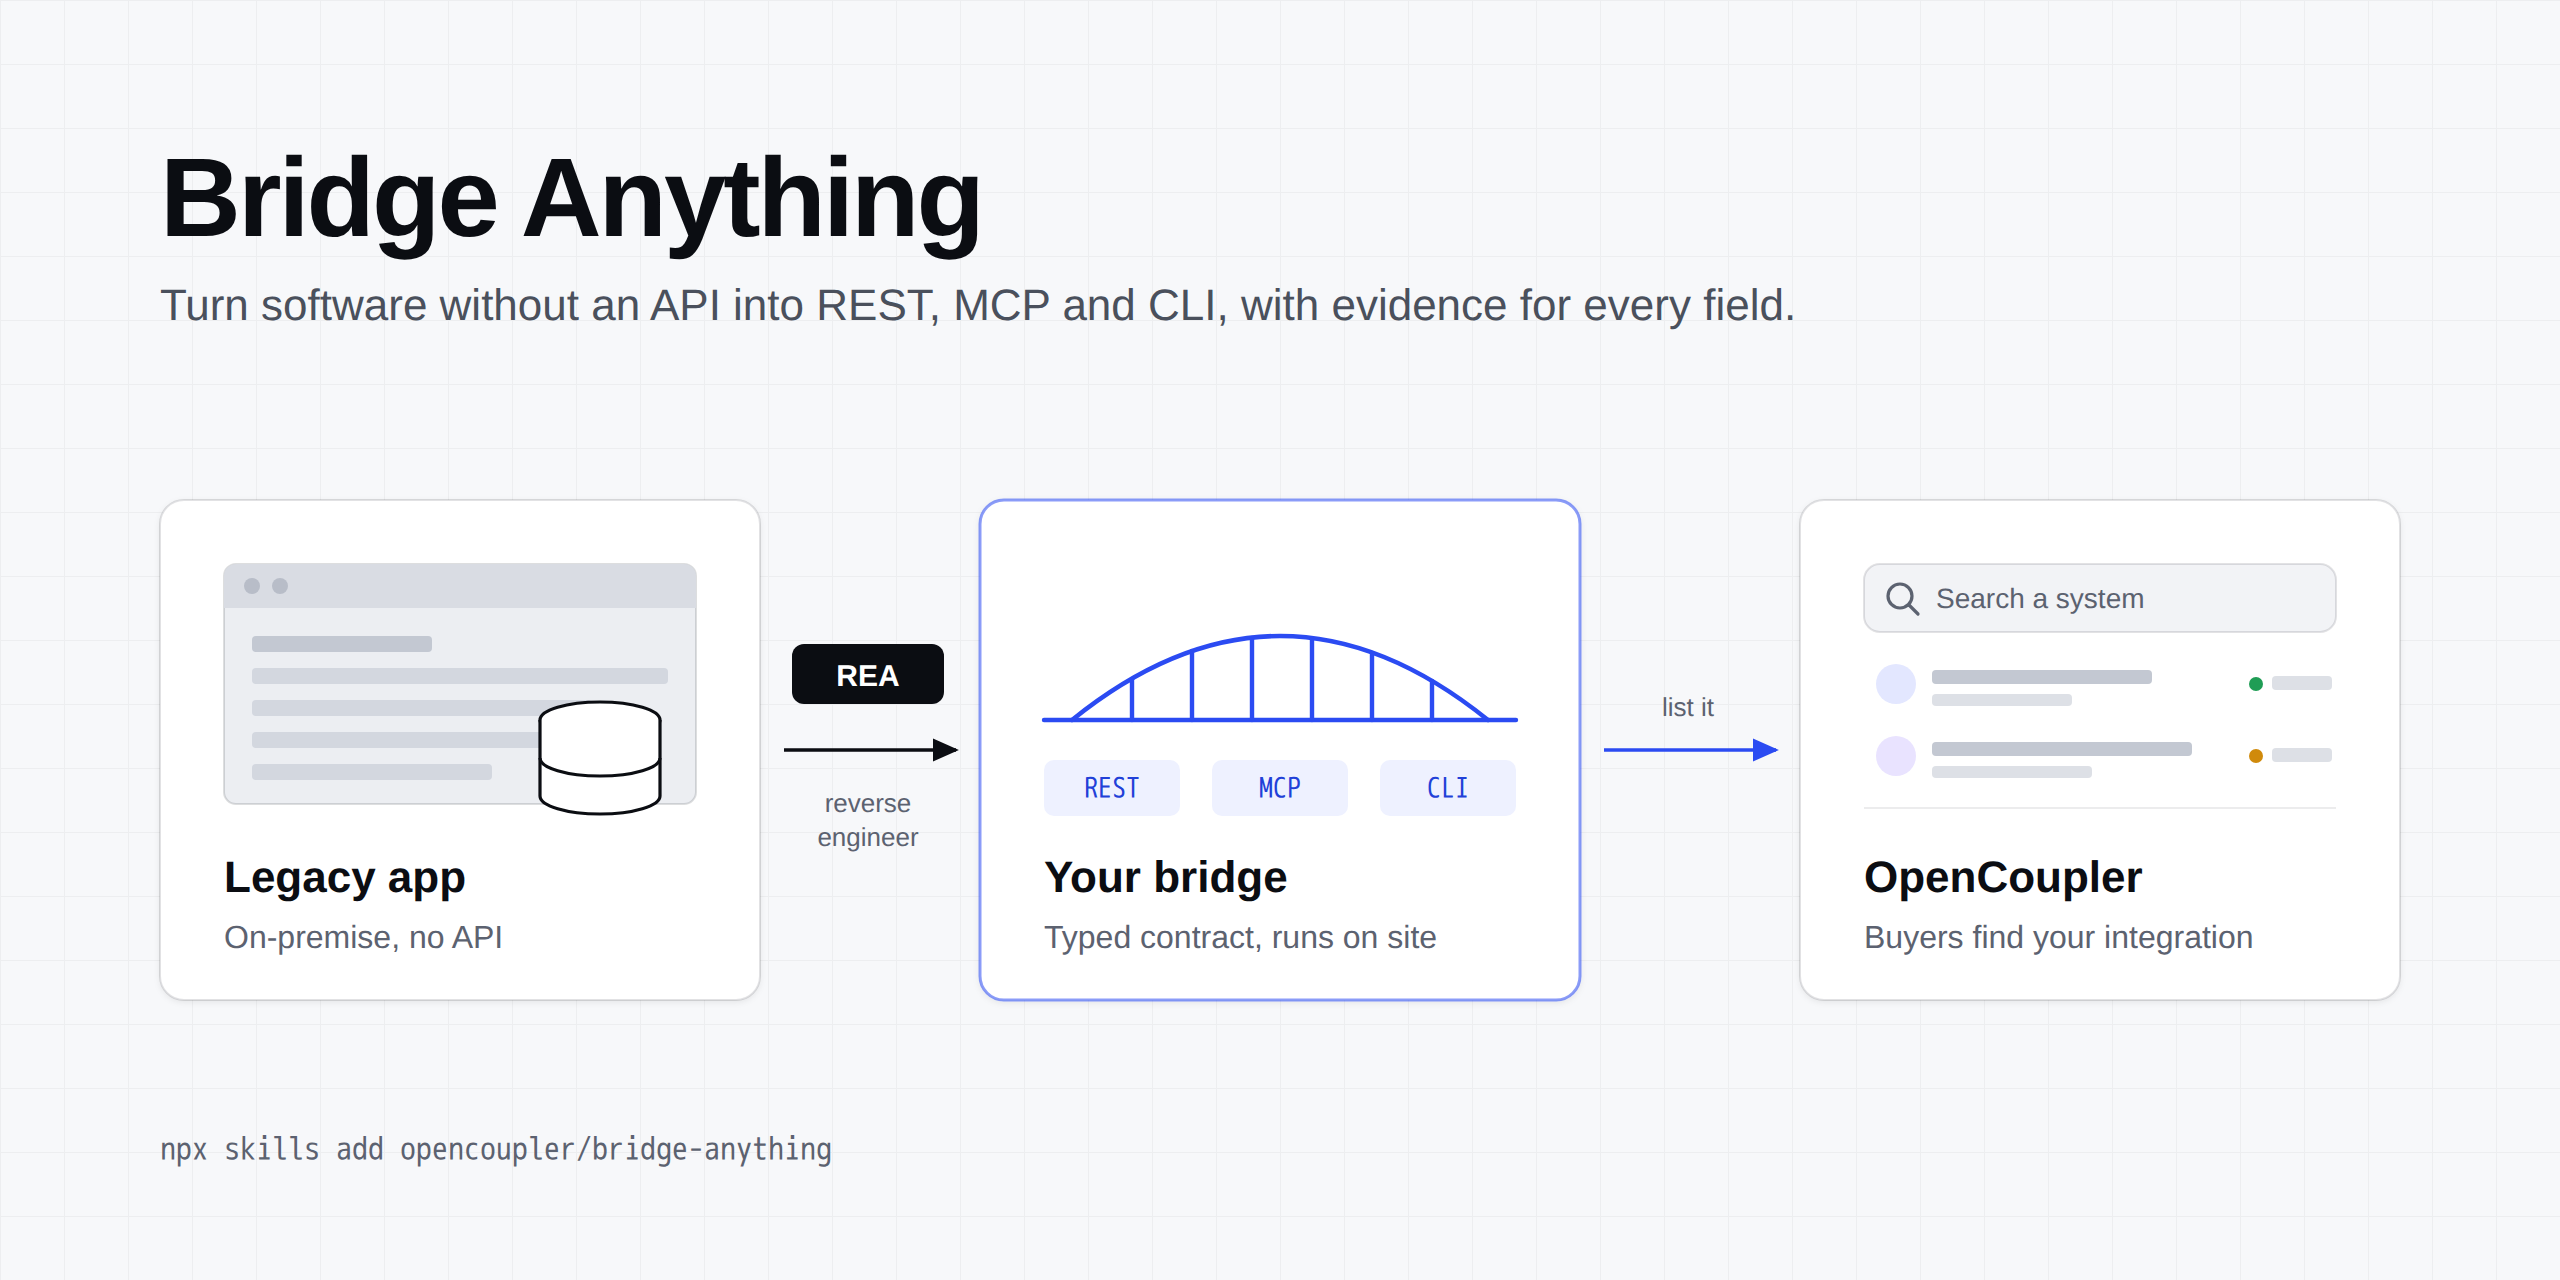
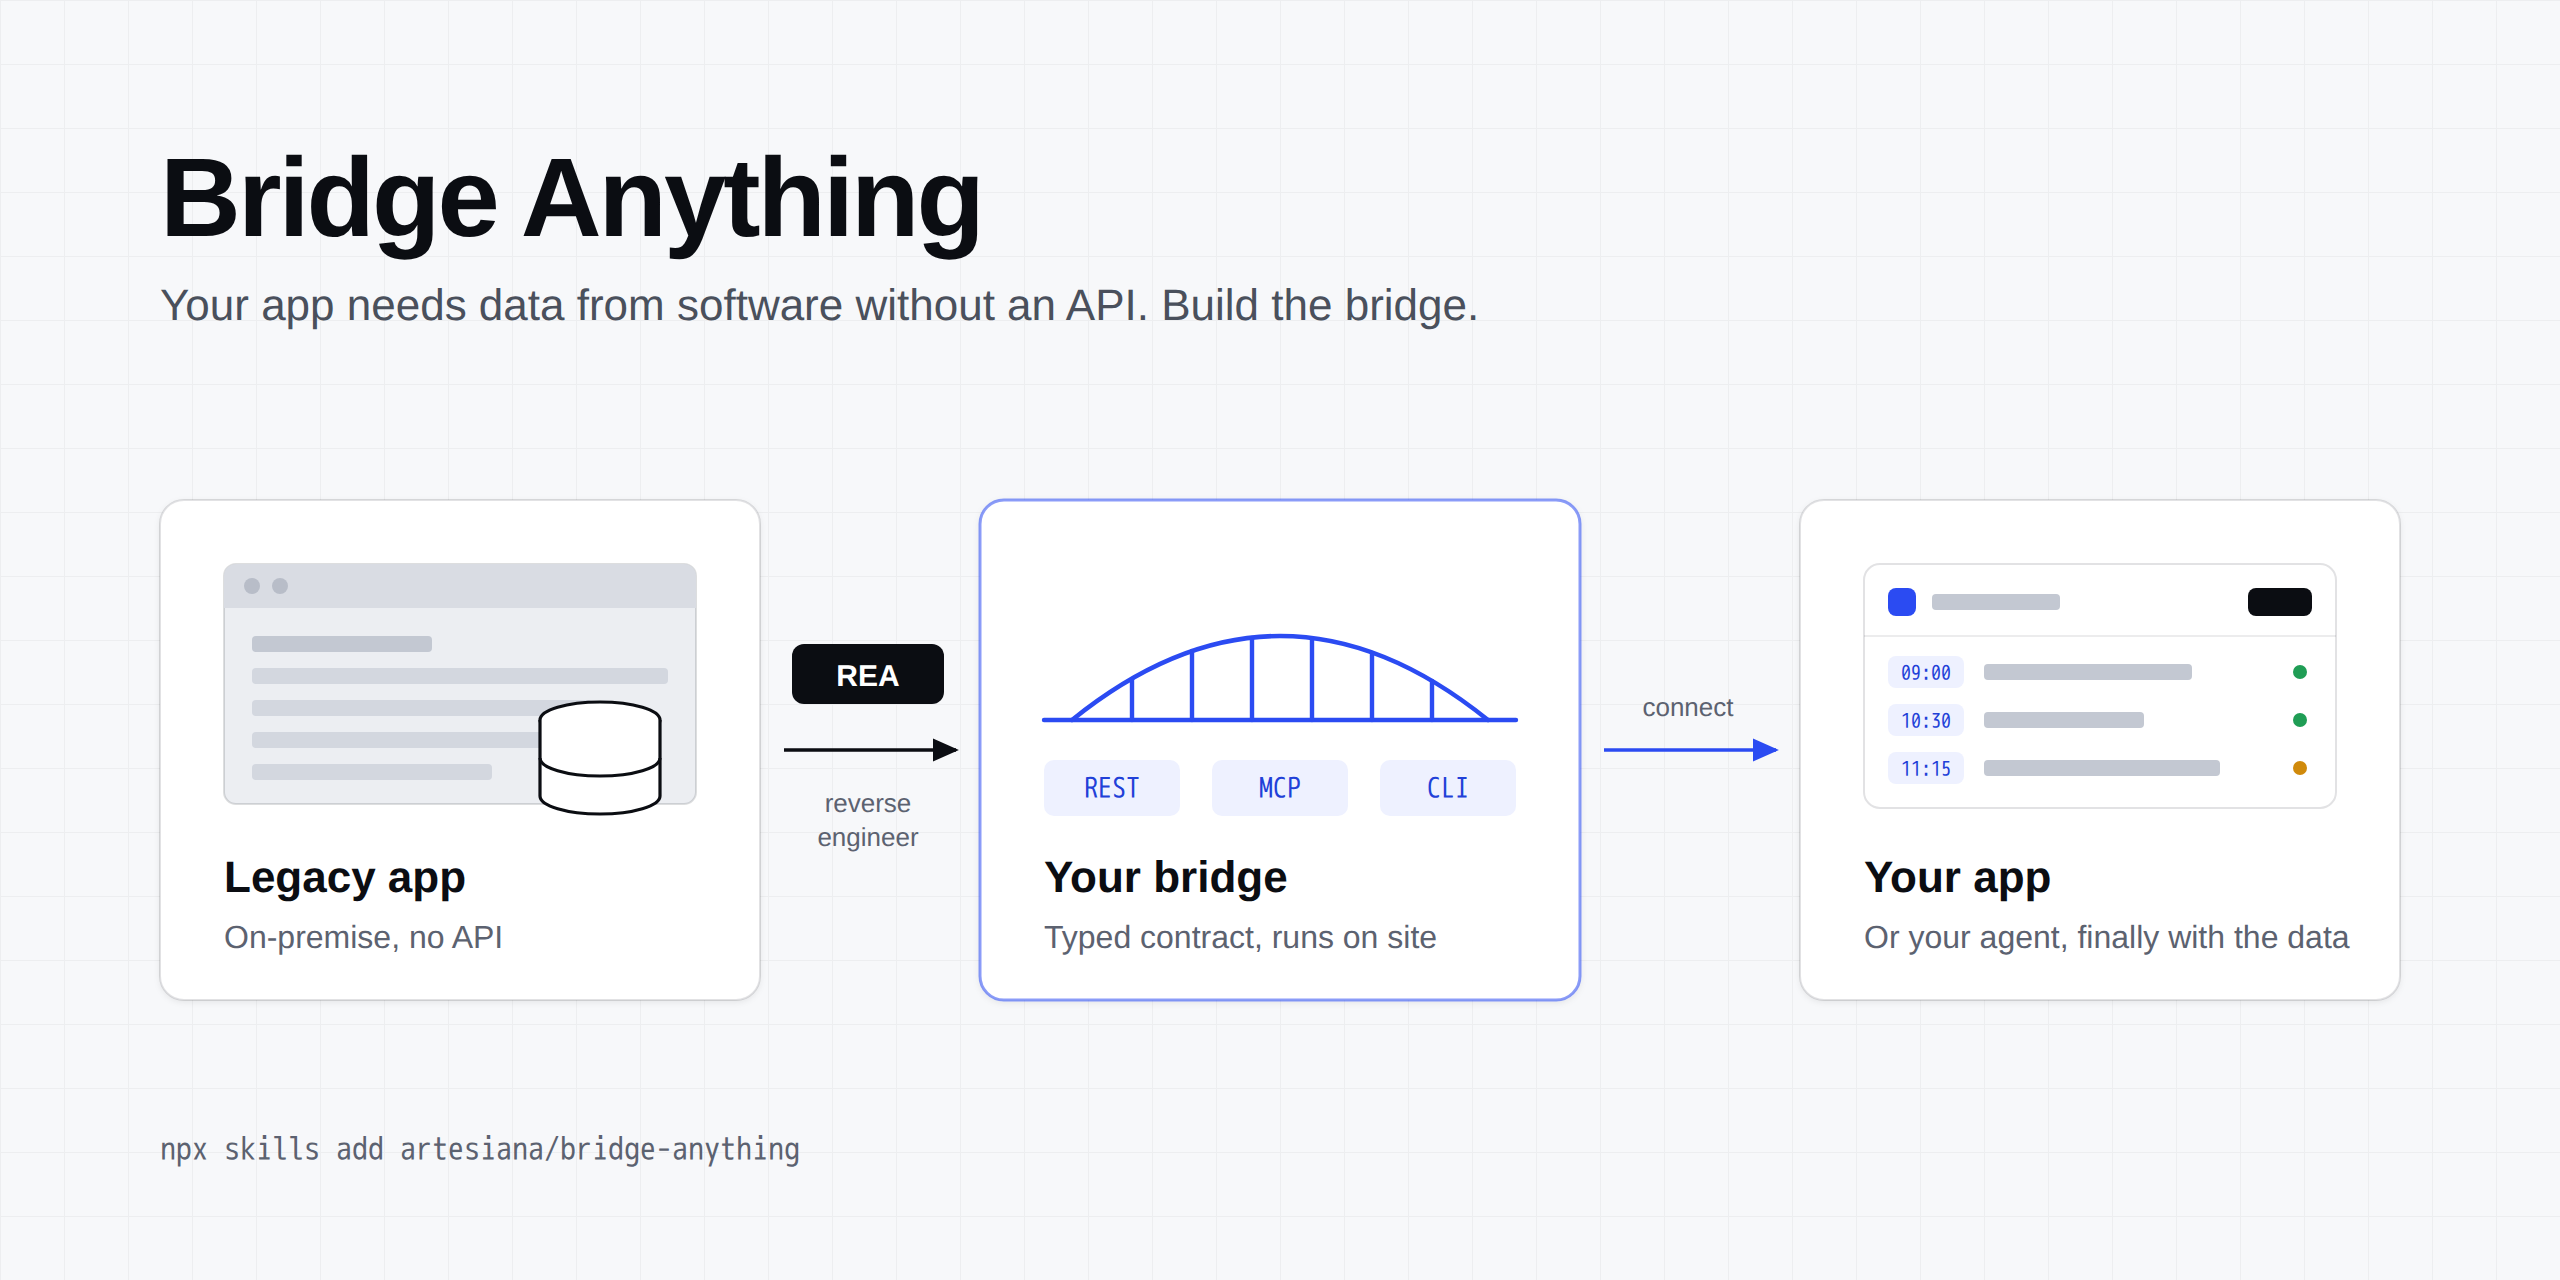
Frame the skill around connecting your own app; publish under Artesiana

diff --git a/README.md b/README.md
@@ -1,61 +1,60 @@
-<img src="assets/hero.png" alt="Bridge Anything: a legacy app without an API, reverse engineered with REA into a bridge exposing REST, MCP and CLI, listed on OpenCoupler" width="100%" />
+<img src="assets/hero.png" alt="Bridge Anything: software without an API, reverse engineered with REA into a bridge with REST, MCP and CLI that your app talks to" width="100%" />
 
 # Bridge Anything
 
-[![skills.sh](https://skills.sh/b/opencoupler/bridge-anything)](https://skills.sh/opencoupler/bridge-anything)
+[![skills.sh](https://skills.sh/b/artesiana/bridge-anything)](https://skills.sh/artesiana/bridge-anything)
 [![MIT license](https://img.shields.io/badge/license-MIT-f4c430?style=flat-square)](LICENSE)
 
-An agent skill that builds an integration into software that has no API.
+Your app needs data from software that has no API. This skill builds the bridge.
 
-Doctors' practice software, dealer systems, tax and accounting desktop apps, old ERPs: a lot of the world's data sits in systems of record that run on a server in the back office and offer no API, or one you can only get through a partner programme. Every agent, app and automation that wants that data stops there.
+Doctors' practice software, dealer systems, tax and accounting desktop apps, old ERPs: a lot of the world's data sits in programs that run on a server in the back office and offer no API, or one you only get through a partner programme. Every app, automation and agent that wants that data stops there.
 
-**Bridge Anything** gives your coding agent (Claude Code, Codex, Cursor and others) a method for getting through. It uses [REA (Reverse Engineer Anything)](https://github.com/morluto/rea) to find where the app keeps its data and how it reads and writes it, then builds a small **bridge** that runs next to the system and exposes that data as REST, MCP and a CLI. Every table, column and write path the bridge relies on is backed by evidence REA found.
+**Bridge Anything** gives your coding agent (Claude Code, Codex, Cursor and others) a method for getting through. It uses [REA (Reverse Engineer Anything)](https://github.com/morluto/rea) to find where the software keeps its data and how it reads and writes it, then builds a small **bridge** that runs next to it and exposes that data as REST, MCP and a CLI. Then it wires your app to the bridge.
 
-When the bridge works, the skill can list it on [OpenCoupler](https://opencoupler.com), so the software companies and IT service providers looking for exactly that integration can find you.
+Every table, column and write path the bridge relies on is backed by evidence REA found. Nothing is guessed.
 
 ## Install
 
 ```bash
 npx rea-agents setup                          # connect REA to your agent
-npx skills add opencoupler/bridge-anything    # add this skill
+npx skills add artesiana/bridge-anything      # add this skill
 ```
 
-Restart your agent afterwards. The skill tells the agent how to work; REA gives it the tools to look inside the app.
+Restart your agent afterwards. The skill tells the agent how to work; REA gives it the tools to look inside the software.
 
 ## Ask your agent
 
 ```text
 Use bridge-anything on the test installation in C:\Praxis\TestInstall.
-We need to read patients and appointments for our booking app, and later
+My booking app needs patients and appointments from it, and later has to
 create appointments. I hold the licence for this installation.
 ```
 
-Replace the path, the data and the purpose with your own.
+Replace the path, the data and the app with your own.
 
 ## How it works
 
-The skill runs six steps. Each one ends on a check the agent has to pass before it moves on.
+Seven steps. Each one ends on a check the agent has to pass before it moves on.
 
 1. **Establish the right to do this.** Whose installation, who agreed, what the vendor already offers. The bridge uses access a licensed user or administrator already has.
 2. **Find where the data lives.** REA inspects the installation: runtime, database engine, connection config, export folders. The skill knows what SQL Server, Firebird, SQL Anywhere, Btrieve, Access, dBase, SQLite and others leave on disk.
-3. **Map each data area.** Tables, keys, deletion, change markers, code tables, and how the app writes, read from its data-access code with REA and confirmed by diffing the database around one action. Results are checked against what the app shows on screen.
-4. **Choose the access path.** Vendor API first, then interface files, then a read-only database user, then UI automation. Writes only through a path the app itself uses.
+3. **Map each data area.** Tables, keys, deletion, change markers, code tables, and how the software writes, read from its data-access code with REA and confirmed by diffing the database around one action. Results are checked against what the software shows on screen.
+4. **Choose the access path.** Vendor API first, then interface files, then a read-only database user, then UI automation. Writes only through a path the software itself uses.
 5. **Build the bridge.** Contract first, one source layer, thin REST, MCP and CLI adapters, write safeguards, tests against an anonymised snapshot, packaged to run on site.
-6. **Publish (optional).** List the bridge on OpenCoupler through its MCP server, reviewed by a human before it goes public.
+6. **Connect your app.** A typed client from the contract, or the bridge's MCP server registered in your agent. Your app talks to the bridge, never to the legacy database, so a vendor update only touches the bridge.
+7. **Share it (optional).** Keep it inside your product, open-source it, or list it where others look for it.
 
 The agent keeps three files as it goes: `BRIDGE.md` (the map and the evidence), `UNKNOWNS.md` (open questions and how to answer them) and `DATA-PROTECTION.md` (what personal data the bridge touches and where it goes).
 
 ## Why use it?
 
-Agents are good at writing a bridge once they know the data model. They are bad at knowing when they have guessed it. Without a method they read three table names, invent the rest, and write into a production database the way they think the app does.
+Agents are good at writing a bridge once they know the data model. They are bad at knowing when they have guessed it. Without a method they read three table names, invent the rest, and write into a production database the way they think the software does.
 
-This skill makes the agent prove each mapping, treat every write as dangerous until it has watched the app do it, and stop when the only way in is past an access control.
+This skill makes the agent prove each mapping, treat every write as dangerous until it has watched the software do it, and stop when the only way in is past an access control.
 
-## Sell your bridge on OpenCoupler
+## Share your bridge
 
-[OpenCoupler](https://opencoupler.com) is a marketplace for integrations into on-premise and legacy software. Providers list an integration per system with its data areas, access method, hosting, data handling and price. Buyers compare providers, contact them on the platform, and vote for systems nobody covers yet, so you can see which bridges are in demand before you build one.
-
-Browse the systems people are asking for at [opencoupler.com/systems](https://opencoupler.com/systems) and [opencoupler.com/requests](https://opencoupler.com/requests).
+A bridge you built for one customer usually works for every other installation of the same software. If you want others to find it, you can list it on [OpenCoupler](https://opencoupler.com), a marketplace for integrations into software without an open API, where people also vote for the systems they need. Step 7 does this through OpenCoupler's MCP server when you ask for it.
 
 ## Responsible use
 
@@ -63,7 +62,7 @@ Use this skill on installations you are licensed for or have written permission 
 
 ## Credits
 
-Built on [REA](https://github.com/morluto/rea) by morluto (MIT). This project is independent and not affiliated with REA.
+Built on [REA](https://github.com/morluto/rea) by morluto (MIT). Independent project, not affiliated with REA. Made by [Artesiana](https://artesiana.de).
 
 ## License
 

diff --git a/skills/bridge-anything/SKILL.md b/skills/bridge-anything/SKILL.md
@@ -1,13 +1,13 @@
 ---
 name: bridge-anything
-description: Build an integration bridge (REST, MCP, CLI) into on-premise or legacy software that has no usable API, using REA (Reverse Engineer Anything) to find where the data lives and how the app reads and writes it. Use when someone needs to read or write data in a system of record without an API (practice management, dealer, tax, ERP or other desktop software), wants an MCP server for such a system, or wants to list a finished bridge on OpenCoupler.
+description: Connect an app or agent to software that has no usable API by building a bridge (REST, MCP, CLI) next to it, using REA (Reverse Engineer Anything) to find where the data lives and how the software reads and writes it. Use when an app, automation or agent needs data from an on-premise or legacy system (practice management, dealer, tax, ERP or other desktop software), or someone wants an MCP server for such a system.
 metadata:
   version: "1"
 ---
 
 # Bridge Anything
 
-A **bridge** is a small service that runs next to a legacy **system of record** and exposes its data through a typed **contract**: REST, MCP and optionally a CLI. You build it in six steps. Each step ends on a completion criterion; finish it before starting the next one.
+A **bridge** is a small service that runs next to a legacy **system of record** and exposes its data through a typed **contract**: REST, MCP and optionally a CLI. Its first client is the user's own app or agent. You build it in seven steps. Each step ends on a completion criterion; finish it before starting the next one.
 
 **Evidence** is the leading word of this skill. Every table, column, file, query and write path the bridge relies on traces back to something REA showed you (a schema dump, a SQL string in an assembly, a recorded file write) or to a document from the vendor. A mapping without evidence is a guess; mark it as an unknown and keep going.
 
@@ -78,8 +78,14 @@ Write the contract first, then the code. [references/bridge-blueprint.md](refere
 - an agent connected to the bridge's MCP server answered one real question per data area on the test installation;
 - `DATA-PROTECTION.md` lists every personal-data field the bridge returns, where it is sent, and how long anything is kept.
 
-## Step 6. Publish (optional)
+## Step 6. Connect the app
 
-Ask the user whether to list the bridge on OpenCoupler, a marketplace where software companies and IT service providers look for integrations into systems without an open API. If yes, follow [references/publish-to-opencoupler.md](references/publish-to-opencoupler.md). The listing describes what step 5 built and nothing more.
+Wire the user's app or agent to the bridge: generate a typed client from `contract/` for the app, or register the bridge's MCP server in the agent. The app talks to the bridge only, never to the legacy database, so a vendor update changes the bridge and nothing else.
 
-**Done when** `list_my_listings` shows the listing `in_review` and the user has read and confirmed the submitted text.
+**Done when** the user's app or agent shows real data from the test installation through the bridge, at least one screen or answer per data area.
+
+## Step 7. Share it (optional)
+
+Ask whether others should be able to use the bridge: inside the user's own product, as open source, or listed on OpenCoupler, a marketplace where software companies and IT service providers look for integrations into systems without an open API. For OpenCoupler, follow [references/publish-to-opencoupler.md](references/publish-to-opencoupler.md). Whatever the channel, the description states what step 5 built and nothing more.
+
+**Done when** the user has chosen a channel, or none, and has read and confirmed any public text before it goes out.

diff --git a/skills/bridge-anything/references/publish-to-opencoupler.md b/skills/bridge-anything/references/publish-to-opencoupler.md
@@ -1,6 +1,6 @@
 # Publish to OpenCoupler
 
-Read for step 6. OpenCoupler (https://opencoupler.com) is a marketplace for integrations into on-premise and legacy software. Providers list an integration per system; buyers compare them, contact the provider on the platform, and request systems nobody covers yet. A human reviews every listing before it goes public.
+Read for step 7. OpenCoupler (https://opencoupler.com) is a marketplace for integrations into on-premise and legacy software. Providers list an integration per system; buyers compare them, contact the provider on the platform, and request systems nobody covers yet. A human reviews every listing before it goes public.
 
 ## One-time setup (the user does this in the browser)
 
